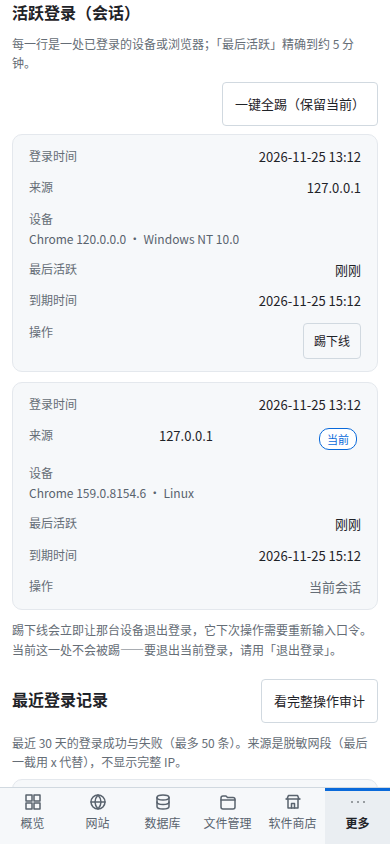
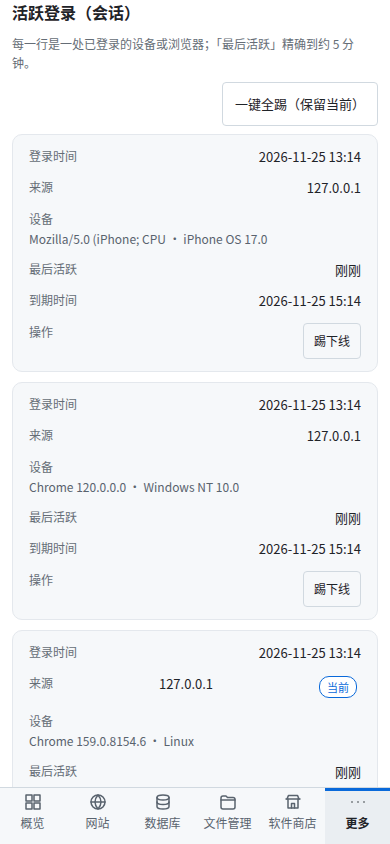
[agent:feat-user-center] refactor(user-center): tab 改名「账户中心」，避免与常规设置同名分类混淆 + 截图刷新

diff --git a/web/user-center.js b/web/user-center.js
@@ -251,14 +251,14 @@
     var gen = S.gen;
 
     var head = add(box, el('div', 'uc-head'));
-    add(head, el('h2', 'uc-title', '账户与安全'));
+    add(head, el('h2', 'uc-title', '账户中心'));
     var refresh = button('刷新', 'btn-ghost');
     refresh.setAttribute('data-kore-action', 'uc-refresh');
     refresh.addEventListener('click', function () { load(gen, true); });
     add(head, refresh);
     add(box, el('p', 'uc-sub',
       '这里回答一个问题：我的管理账号现在安全吗。口令、两步验证、API 令牌、登录白名单、' +
-      '活跃会话与登录记录都在这一页；改口令和踢下线也在这一页完成。'));
+      '活跃会话与登录记录都在这一页；改口令和踢下线也在这一页完成。具体配置项仍在「常规设置」里改。'));
 
     var body = add(box, el('div', 'uc-body'));
     load(gen, false);

diff --git a/web/i18n/en-US.js b/web/i18n/en-US.js
@@ -13,7 +13,7 @@
     'nav.tasks': 'Scheduled Tasks',
     'nav.monitor': 'Monitoring',
     'nav.settings': 'Settings',
-    'nav.userCenter': 'Account & Security',
+    'nav.userCenter': 'Account Center',
     'nav.terminal': 'Terminal',
     'nav.db': 'Databases',
     'nav.logs': 'Logs',

diff --git a/web/i18n/zh-CN.js b/web/i18n/zh-CN.js
@@ -12,7 +12,7 @@
   'nav.tasks': '计划任务',
   'nav.monitor': '监控',
   'nav.settings': '设置',
-  'nav.userCenter': '账户与安全',
+  'nav.userCenter': '账户中心',
   'nav.terminal': '终端',
   'nav.db': '数据库',
   'nav.logs': '日志',

diff --git a/.agents/verify/user-center.md b/.agents/verify/user-center.md
@@ -31,7 +31,11 @@
 
 **假警报修正**：首登（历史为空）不算「新网段」；只有此前已有过其它网段成功登录才标记，避免全新实例一登录就报红。
 
-## 3. 用户可见行为（`web/user-center.js`，挂在「设置」hub 第二个 tab「账户与安全」）
+## 3. 用户可见行为（`web/user-center.js`，挂在「设置」hub 第二个 tab「账户中心」）
+
+> 命名说明：tab 最终叫「账户中心」而不是「账户与安全」——常规设置第一组的分类名正是「账户与安全」，
+> 同一页出现两个同名项会让人分不清"总览"与"改设置"（peer `feat-settings-polish` 指出，已采纳；
+> 内部 id 仍是 `user-center`）。
 
 1. 六张状态卡：管理员口令（强度/上次修改/存储方式，带「改口令」）、两步验证（恢复码剩余）、API 令牌、登录白名单、活跃登录、最近登录（异常红字）。
 2. 快捷动作行：改口令（本页内联弹层，实时强度条 + 三次校验）、开启/关闭两步验证、生成令牌、管理白名单、退出登录（后四项经 `window.__koreSettingsTab='security' + KoreShell.navigate('settings/settings')` 跳到既有 security.js，不重复实现）。
